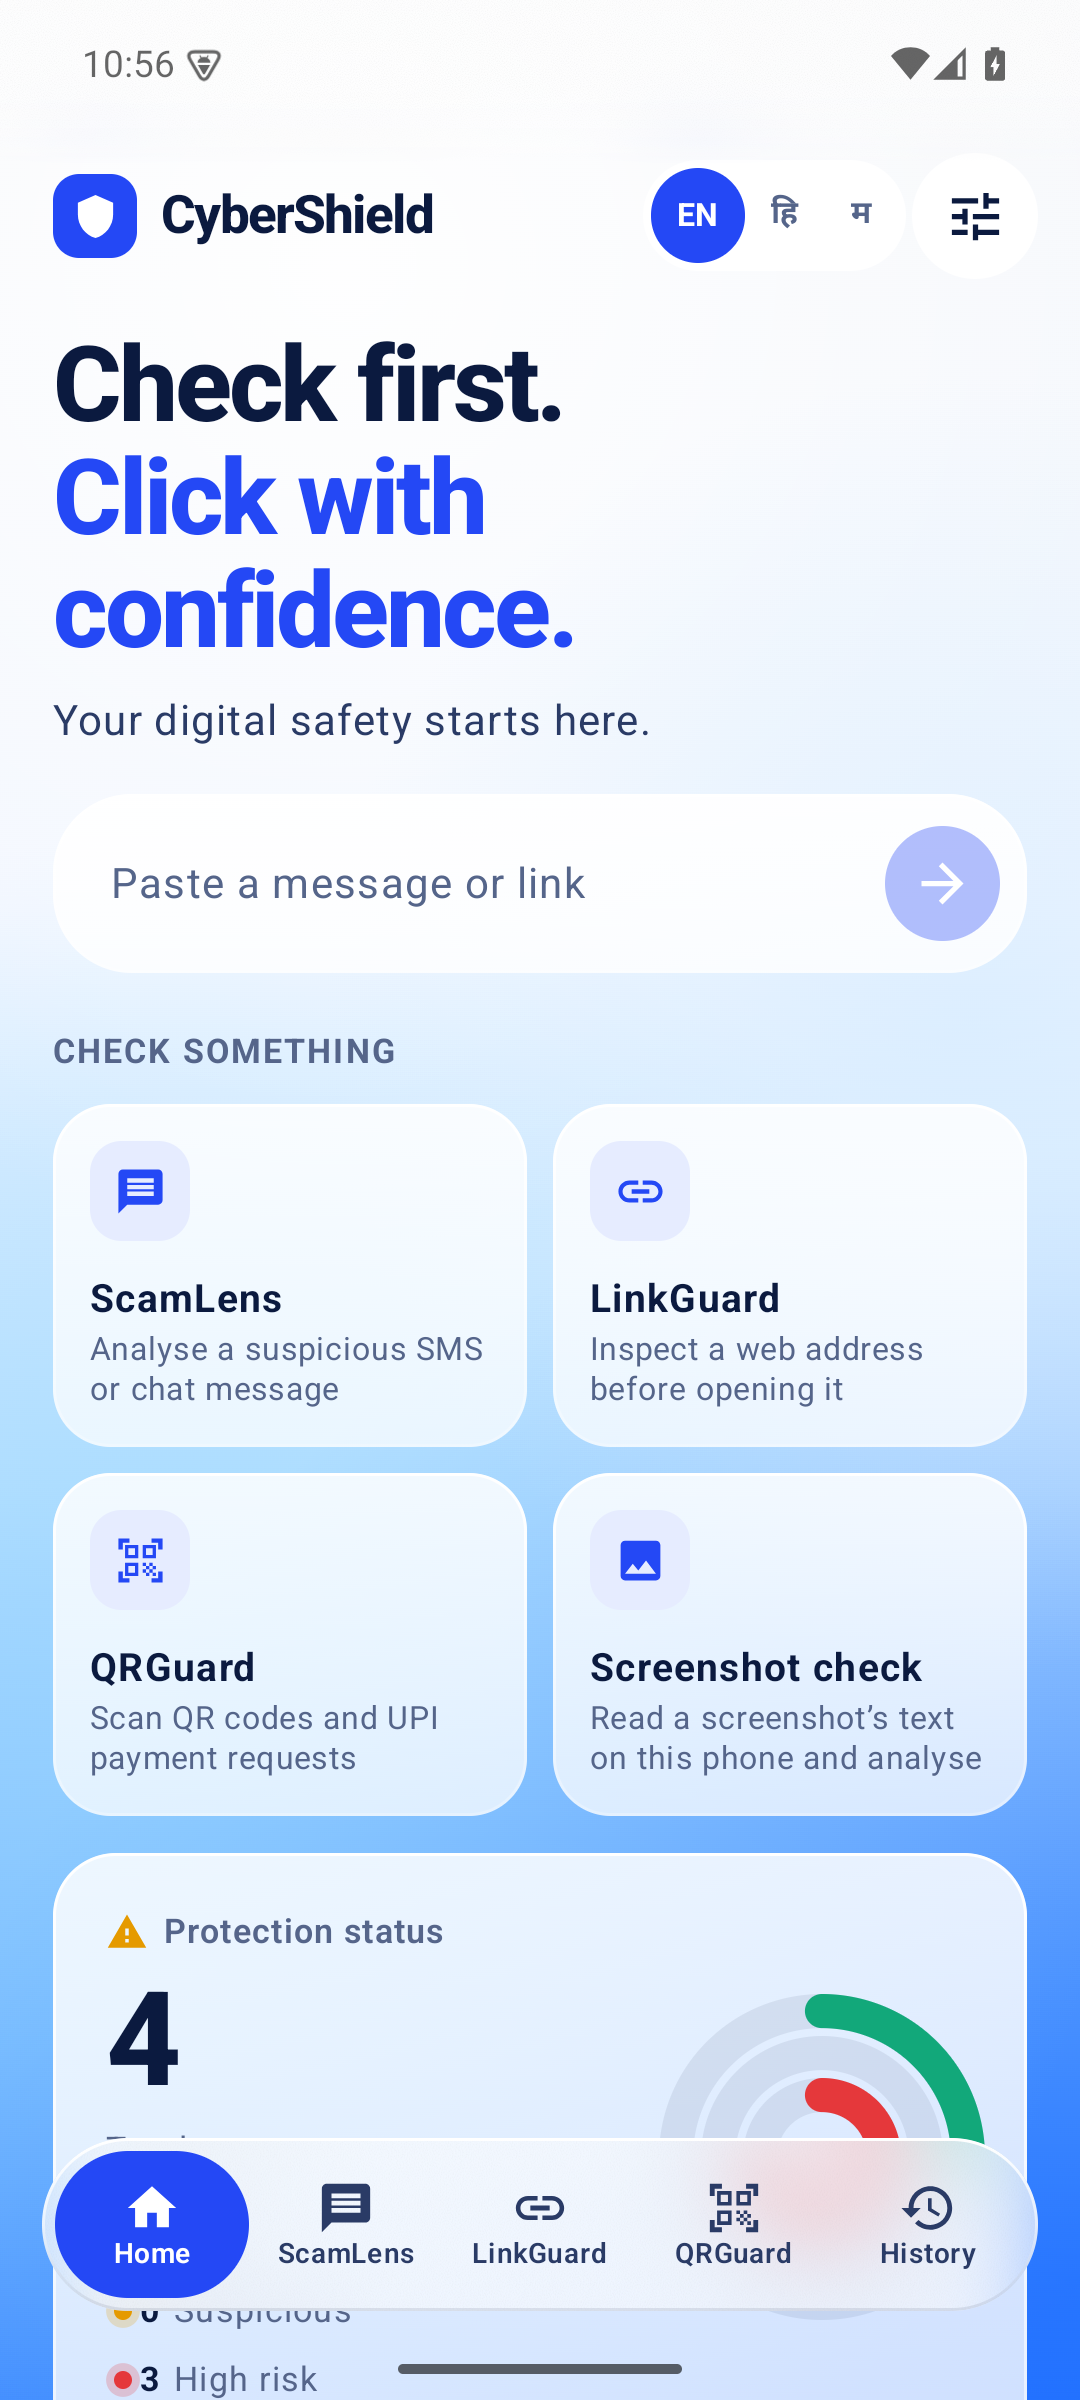
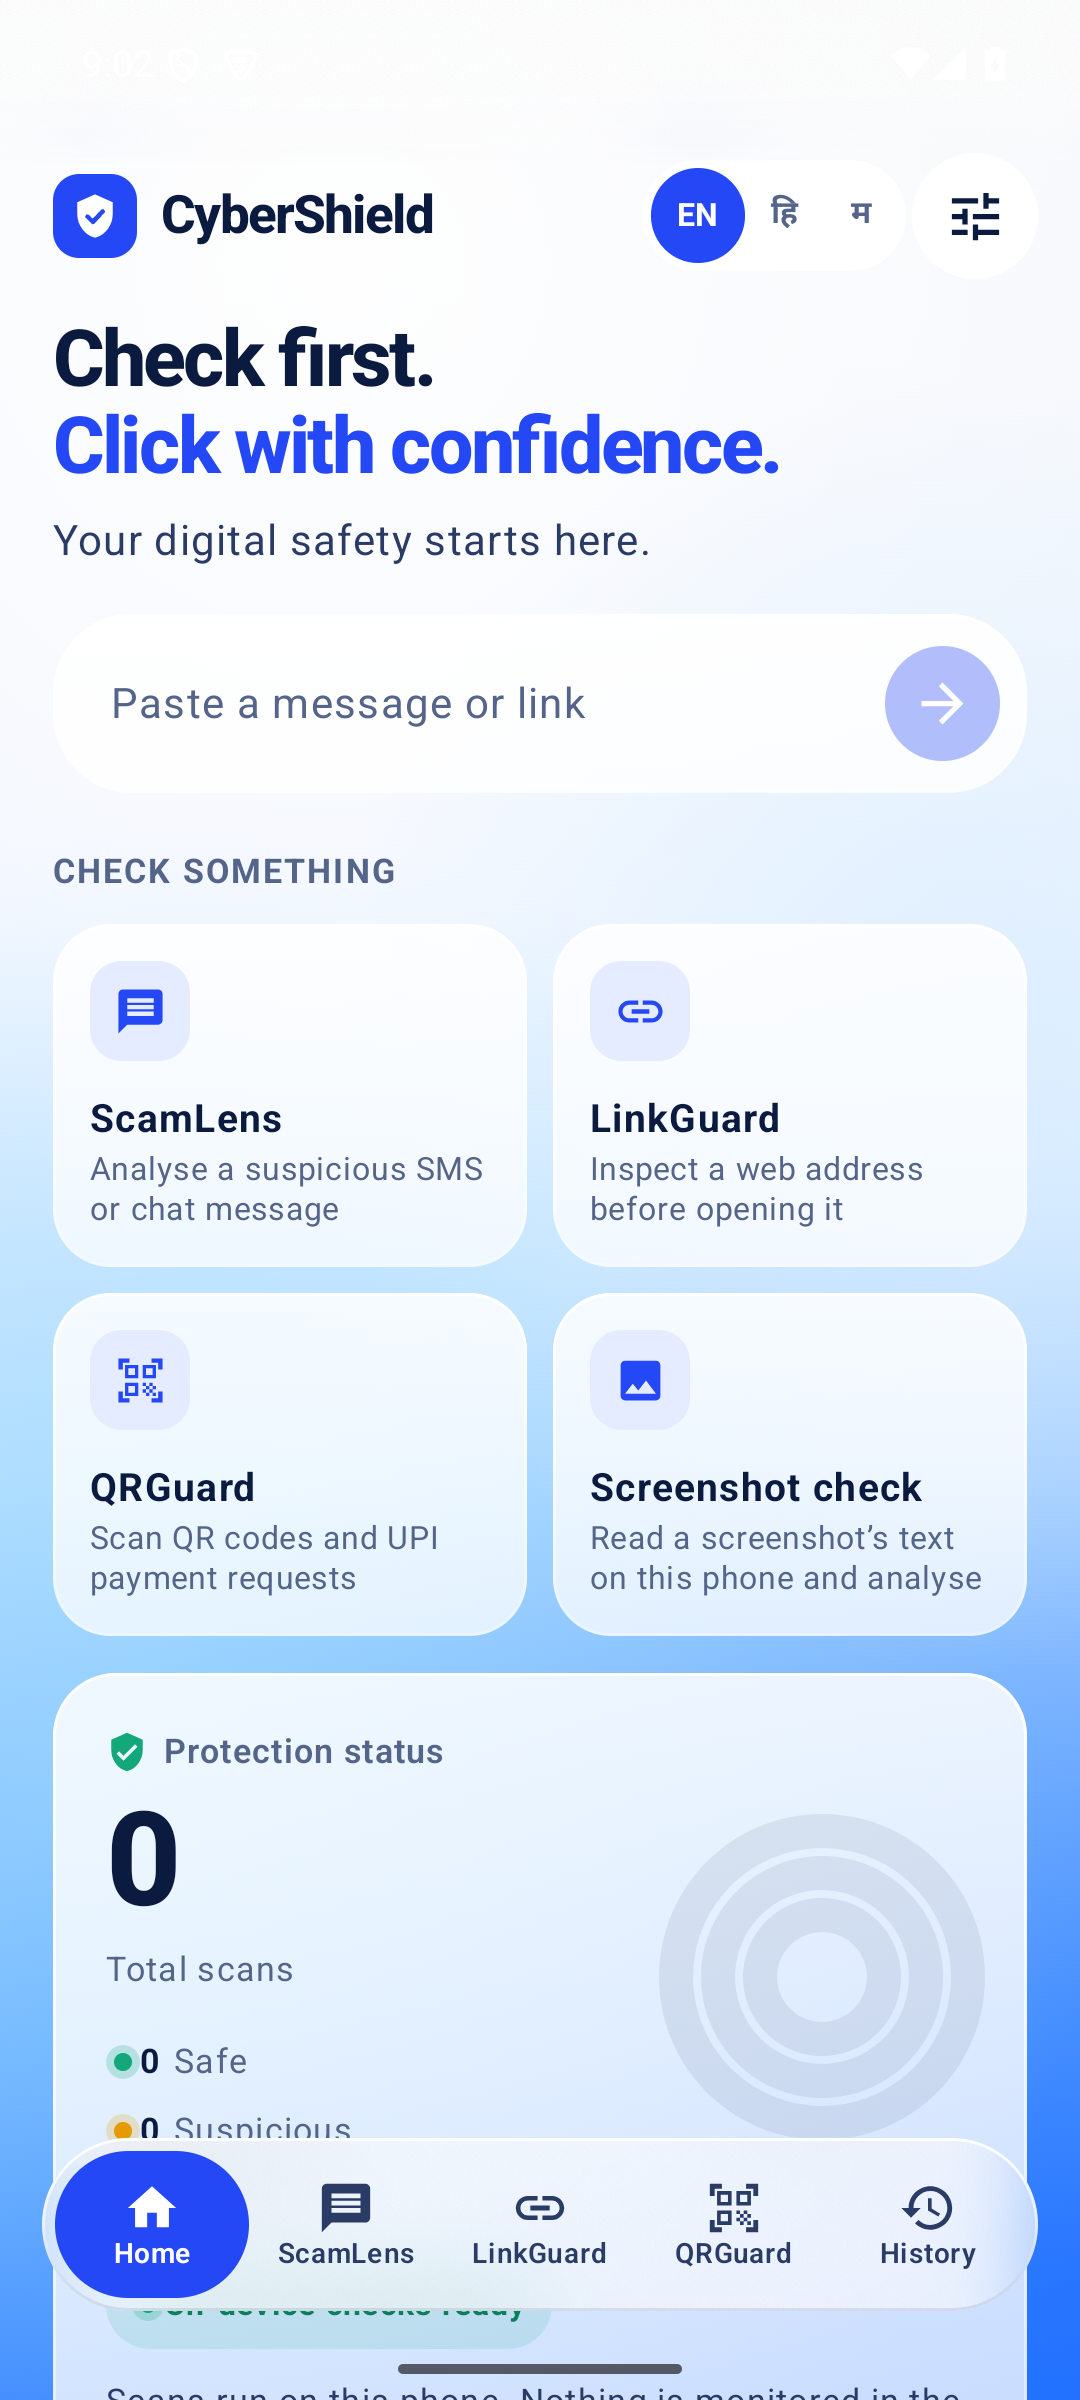
README: current screenshots, accuracy results, report flow and roadmap
Shows the redesigned home, result, report and QRGuard screens, publishes
the holdout precision/recall, records the maintainer's phone test, and
moves completed roadmap items to Done.

diff --git a/README.md b/README.md
@@ -21,6 +21,7 @@ CyberShield answers "is this a scam?" before you act. It runs on the phone by de
 | **Threat intelligence** (optional) | One tap checks a link with Google Safe Browsing, VirusTotal and URLhaus through the CyberShield backend. Only a provider match is shown as **"Confirmed malicious"**; everything else is labelled a heuristic. |
 | **AI explanation** (optional) | One tap sends **redacted** text (numbers, e-mails, UPI IDs removed, previewed first) to Gemini through the backend for a plain-language explanation in the app language. |
 | **History and dashboard** | Totals, suspicious and high-risk counts, recent activity, search and filters. Never stores message text, full links, UPI IDs or numbers. |
+| **Report this** | For risky results, drafts a report on the phone (OTPs and your card, account and Aadhaar numbers removed; the sender's number, UPI ID and links kept) to copy or share, with one-tap Chakshu, cybercrime.gov.in and 1930. Nothing is sent by CyberShield. |
 | **Share-to-scan** | Share text or images from any app, use *Check with CyberShield* in the text-selection menu, or launcher shortcuts. |
 | **Languages** | English, हिन्दी, मराठी interface and explanations, switchable in-app; detection always uses all three dictionaries plus romanised Hindi. |
 
@@ -28,7 +29,11 @@ Nothing opens automatically. Links and UPI payments open only after a confirmati
 
 ## Screenshots
 
-All screenshots are from the debug build on an Android 15 (API 35) emulator.
+Screenshots are from the debug build on an Android 15 (API 35) emulator. The first row shows the current Cobalt Silk design (5 Nov 2026); the rows below it were taken before the redesign and show the same features in the older look.
+
+| Home | Result, main step first | Report this | QRGuard |
+|---|---|---|---|
+| ![Home](design/device/01-home.png) | ![Result](design/device/03-message-high-scrolled.png) | ![Report](design/device/11-report.png) | ![QRGuard](design/device/10-qrguard.png) |
 
 | Dashboard | ScamLens | Screenshot OCR (Hindi + English) | QRGuard UPI |
 |---|---|---|---|
@@ -75,7 +80,7 @@ Requirements: JDK 17+ and Android SDK Platform 35 (Android Studio provides both)
 
 ```bash
 cd android
-./gradlew :app:testDebugUnitTest      # 62 JVM unit tests
+./gradlew :app:testDebugUnitTest      # 69 JVM unit tests, including the accuracy evaluation
 ./gradlew :app:lintDebug              # Android lint (0 issues)
 ./gradlew :app:assembleDebug          # app/build/outputs/apk/debug/*.apk
 ./gradlew :app:assembleRelease        # R8-shrunk; unsigned unless signing env vars are set
@@ -110,9 +115,21 @@ How to get each key, response formats, limits and deployment: [backend/README.md
 
 | Suite | Count | Covers |
 |---|---|---|
-| Android JVM unit tests | 62 | Message scams (EN/HI/MR/Hinglish), genuine OTP and everyday SMS, URLs (IP, punycode, homograph, credentials, lookalikes, shorteners, free hosting, redirects, malformed input), QR and UPI parsing, redaction, history privacy and limits, backend-client failure modes, translation completeness |
+| Android JVM unit tests | 69 | Accuracy on the labelled evaluation sets (see below), message scams (EN/HI/MR/Hinglish), genuine OTP and everyday SMS, URLs (IP, punycode, homograph, credentials, lookalikes, shorteners, free hosting, redirects, malformed input), QR and UPI parsing, redaction (cloud and report), history privacy and limits, backend-client failure modes, translation completeness |
 | Android instrumented tests | 9 | Message → HIGH and history without content; LinkGuard confirmation gating; genuine OTP → LOW; clear history; share text, share link, `PROCESS_TEXT`; on-device OCR of a Hindi+English screenshot; QR decoding from images |
 | Backend tests | 19 | Valid request, invalid input (400/413/415), missing credentials, provider down, retry, cache, rate limits (app and VirusTotal), shortener expansion without SSRF, AI schema validation and error mapping |
+
+### Accuracy
+
+`EvaluationTest` scores the on-device engines on labelled dev and holdout sets of messages, links and QR codes (`android/app/src/test/resources/eval/`). Holdout results (5 Nov 2026), the fairer estimate:
+
+| | Recall | Precision | False alarms |
+|---|---|---|---|
+| Messages (40 scam, 30 legit) | 80.0% | 100% | 0 |
+| Links (15 phishing, 10 legit) | 86.7% | 100% | 0 |
+| QR codes (6 scam, 6 legit) | 100% | 100% | 0 |
+
+The samples were written for this project from public advisory patterns. They are not real collected messages, so these numbers do not measure real-world accuracy. Method, before/after figures and the known misses: [docs/EVALUATION.md](docs/EVALUATION.md).
 
 ## Privacy and security
 
@@ -126,9 +143,9 @@ Details: [PRIVACY.md](PRIVACY.md) · [docs/SECURITY_REVIEW.md](docs/SECURITY_REV
 
 ## Limitations
 
-- Detection is rule-based. Accuracy (precision/recall) has **not** been measured on a labelled dataset; new wording or clean-looking domains can score LOW, and a low score is not proof of safety.
+- Detection is rule-based. On the project's own holdout set it misses 1 in 5 scam messages, mostly familiar tricks in unfamiliar words; it has not been measured on real collected messages. New wording or clean-looking domains can score LOW, and a low score is not proof of safety.
 - Threat intelligence and AI are implemented and tested with scripted responses but have **not been run against live API keys**.
-- Tested on an Android 15 emulator only. **No physical-device testing yet**: live camera QR decoding, real WhatsApp/Messages sharing, UPI app hand-off and OCR on real screenshots still need it.
+- Tested on an Android 15 emulator and on the maintainer's own phone. Wider testing across phone makers and older Android versions has not been done.
 - Hindi and Marathi translations have not been reviewed by native speakers; language detection is a best guess. See [docs/MULTILINGUAL.md](docs/MULTILINGUAL.md).
 - No background protection: Android does not let ordinary apps read other apps' messages, and CyberShield deliberately avoids notification and accessibility access.
 - The backend has no app attestation yet (rate limits only) and keeps limits in memory per instance.
@@ -136,16 +153,16 @@ Details: [PRIVACY.md](PRIVACY.md) · [docs/SECURITY_REVIEW.md](docs/SECURITY_REV
 
 ## Roadmap
 
-1. Physical-device test pass ([checklist](docs/DEMO.md#physical-device-checklist-not-yet-done)).
-2. Live-key verification of Safe Browsing, VirusTotal, URLhaus and Gemini; deploy the backend on HTTPS.
-3. Labelled evaluation set from public advisories; publish precision/recall.
-4. Native-speaker review of Hindi and Marathi; more Indian languages.
-5. Play Integrity / App Check on the backend.
-6. Pre-filled, redacted "Report to Chakshu / 1930" flow.
+1. Live-key verification of Safe Browsing, VirusTotal, URLhaus and Gemini; deploy the backend on HTTPS.
+2. Add real, consented and anonymised messages to the evaluation as an untouched test split, and generalise the rules by category ([evaluation](docs/EVALUATION.md#next-steps)).
+3. Native-speaker review of Hindi and Marathi; more Indian languages.
+4. Play Integrity / App Check on the backend.
+
+Done: physical-device check on the maintainer's phone; labelled evaluation with published precision/recall; pre-filled, redacted "Report this" flow for Chakshu, cybercrime.gov.in and 1930.
 
 ## Project docs
 
-[Architecture](docs/ARCHITECTURE.md) · [Demo script](docs/DEMO.md) · [Pitch](docs/PITCH.md) · [Security review](docs/SECURITY_REVIEW.md) · [Audit of the starting code](docs/AUDIT.md) · [Release & signing](docs/RELEASE.md) · [Multilingual scope](docs/MULTILINGUAL.md) · [Platform limits](docs/PLATFORM_LIMITATIONS.md) · [Privacy policy](PRIVACY.md)
+[Architecture](docs/ARCHITECTURE.md) · [Evaluation](docs/EVALUATION.md) · [Demo script](docs/DEMO.md) · [Pitch](docs/PITCH.md) · [Security review](docs/SECURITY_REVIEW.md) · [Audit of the starting code](docs/AUDIT.md) · [Release & signing](docs/RELEASE.md) · [Multilingual scope](docs/MULTILINGUAL.md) · [Platform limits](docs/PLATFORM_LIMITATIONS.md) · [Privacy policy](PRIVACY.md)
 
 No licence has been selected yet. Choose one after reviewing dependency obligations (ML Kit is subject to Google's ML Kit terms).
 
